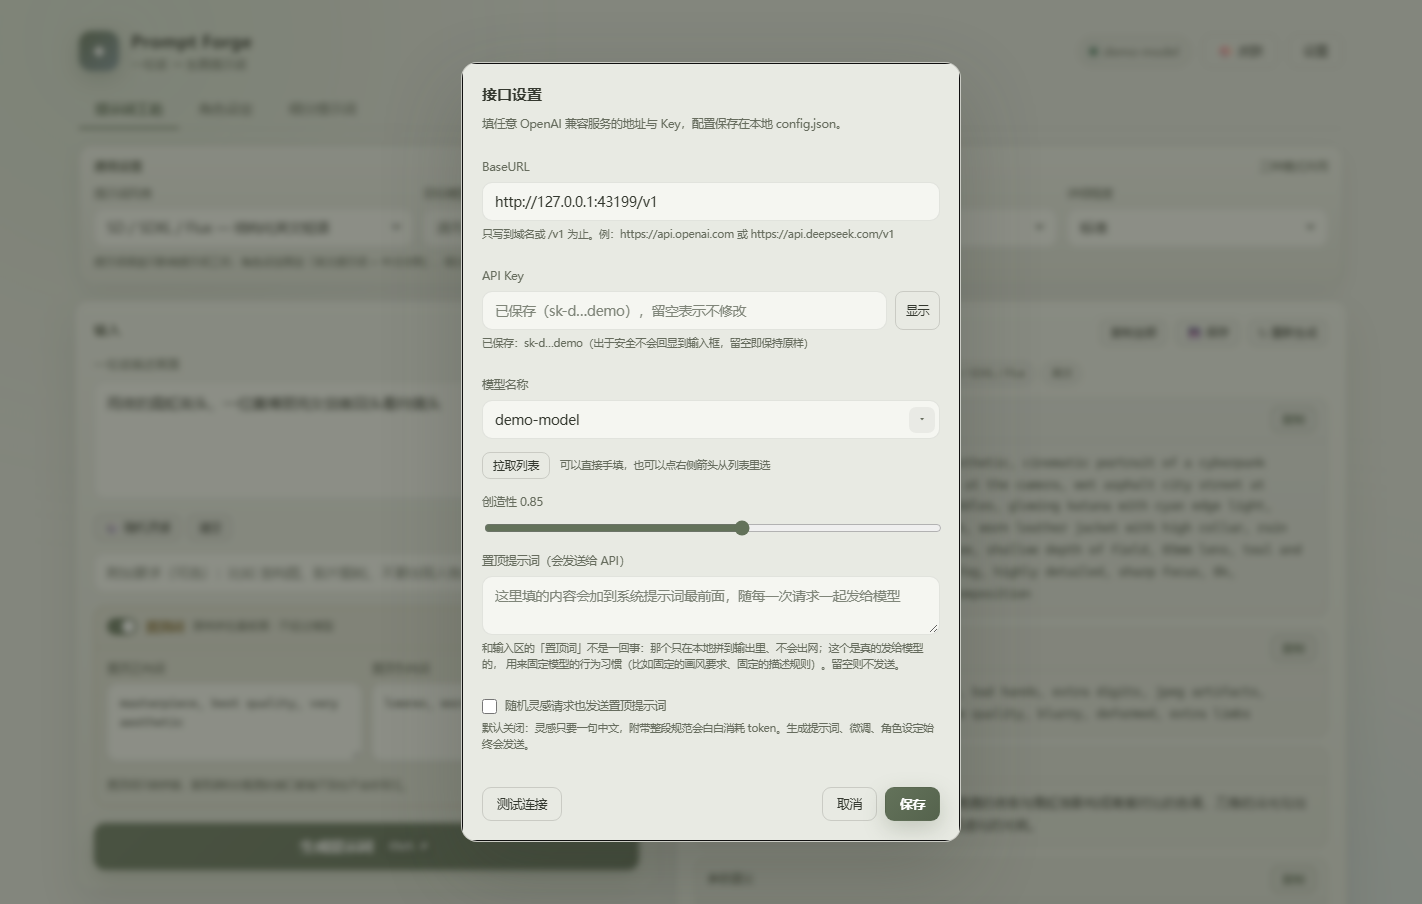
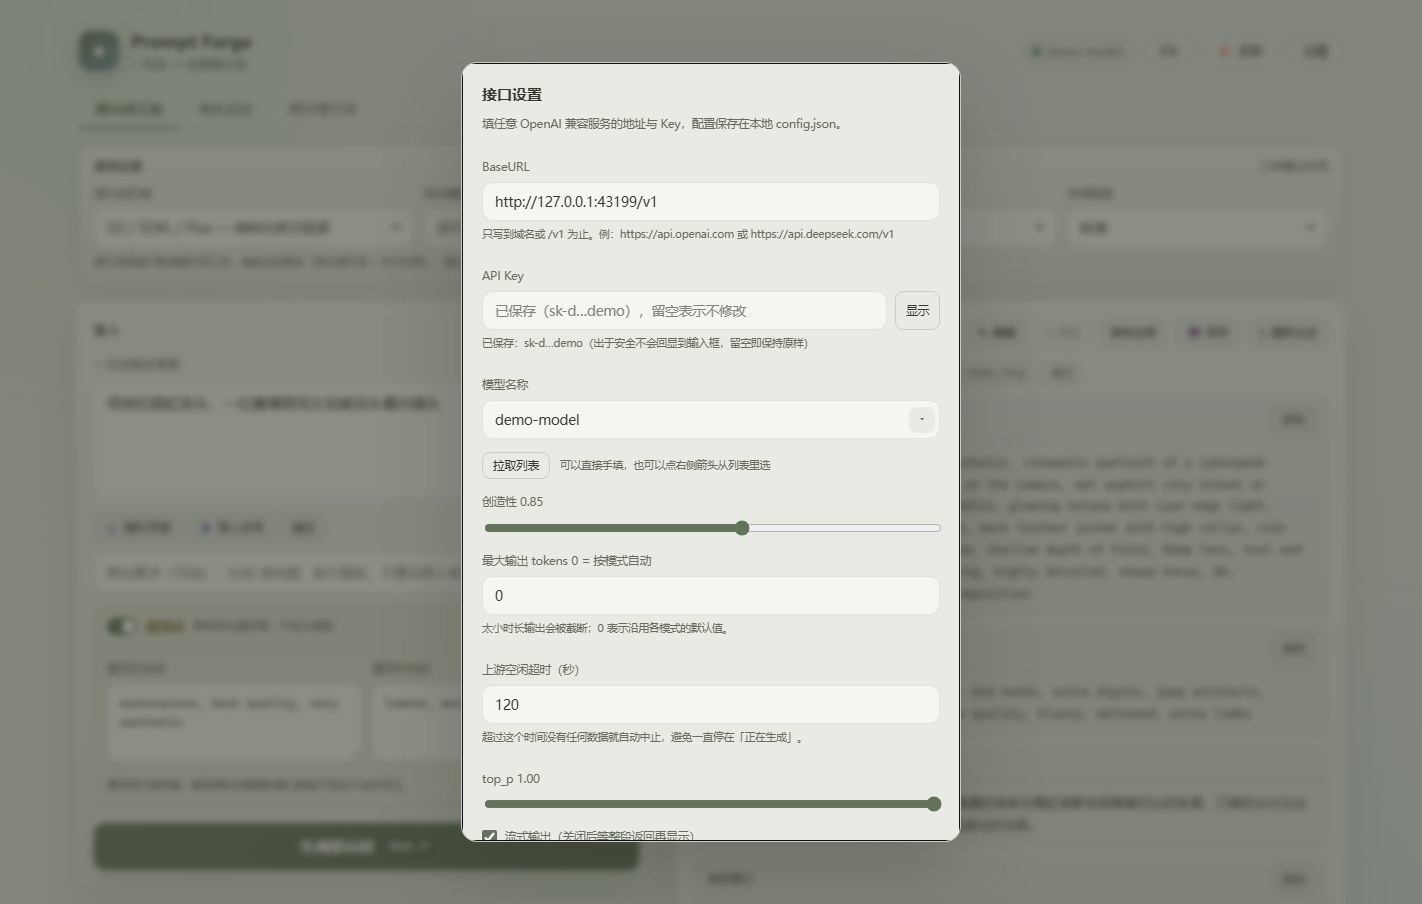
release: prepare v2.0.0

Changed region(s): [[0.3404, 0.7743, 0.6807, 0.9292], [0.3404, 0.5885, 0.6498, 0.7434], [0.6807, 0.3407, 0.7117, 0.3717]]

diff --git a/src/public/app.js b/src/public/app.js
@@ -517,6 +517,7 @@ function applyConfig(cfg, opts = {}) {
   $('#modelBadge').textContent = cfg.model ? cfg.model : '未设置模型';
   $('#charModelBadge').textContent = cfg.model ? cfg.model : '未设置模型';
   $('#segModelBadge').textContent = cfg.model ? cfg.model : '未设置模型';
+  if ($('#appVersion')) $('#appVersion').textContent = cfg.version ? `v${cfg.version}` : '';
   // 旧进程没有 features.segment；先记下来，进细分页时直接提示重启
   S.serverStale = !(cfg.features && cfg.features.segment);
   if (S.serverStale && S.view === 'segment') showSegErr(STALE_SERVER_MSG);

diff --git a/src/public/index.html b/src/public/index.html
@@ -436,6 +436,7 @@
         <button class="btn tiny ghost" id="btnLibrary">📚 保存库 <span id="libBtnCount">0</span></button>
         <button class="btn tiny ghost" id="btnOpenSaved">📁 打开目录</button>
         <button class="btn tiny ghost" id="btnHistory">历史记录 <span id="historyCount">0</span></button>
+        <span class="dim small" id="appVersion"></span>
       </div>
     </footer>
   </div>

diff --git a/README.en.md b/README.en.md
@@ -1,22 +1,39 @@
 # Prompt Forge
 
 [![CI](https://github.com/yu20000505/prompt-forge/actions/workflows/ci.yml/badge.svg)](https://github.com/yu20000505/prompt-forge/actions/workflows/ci.yml)
+[![Latest release](https://img.shields.io/github/v/release/yu20000505/prompt-forge?color=6f7f66)](../../releases)
 [![License: MIT](https://img.shields.io/badge/license-MIT-6f7f66.svg)](LICENSE)
 
-**One sentence in. A production-ready image prompt out.**
+**One sentence in. A production-ready image prompt out. 2.0**
 
 Prompt Forge is a local-first desktop tool that turns a single plain-language sentence into
 prompts you can paste straight into Stable Diffusion, NovelAI, Midjourney, Flux or DALL·E.
 It also builds character sheets with an English prompt and a Chinese translation, plus seven
 segment-tag groups (outfit, character look, scene, pose, props, lighting, style) you can combine
-freely. Every result can be refined with one sentence, undone, and saved to a local library.
+freely.
 
-No accounts, no telemetry, no cloud sync. It talks directly to whatever
+Version 2.0 completes the workflow after generation: edit results by hand, keep every mode in one
+searchable history, generate all seven tag groups at once and splice them into a single prompt,
+full-text search and back up the library, retry flaky APIs automatically, and switch the whole UI
+between Chinese and English. No accounts, no telemetry, no cloud sync. It talks directly to whatever
 **OpenAI-compatible API** you configure, and your key never leaves your machine.
 
-[中文说明](README.md) · [Download](../../releases) · [Build from source](#build-from-source)
+[中文说明](README.md) · [Download](../../releases) · [Changelog](CHANGELOG.md) · [Build from source](#build-from-source)
 
 ![Main window](docs/screenshots/01-main.png)
+
+## What's new in 2.0
+
+- **Hand editing** — edit the positive/negative prompt, interpretation, parameters, character text
+  or segment tags directly, with a “manually edited” marker and one-click restore.
+- **Import & rewrite** — paste an existing prompt and restructure it into the current style.
+- **Unified history** — all three modes are recorded, filterable, searchable and favoritable.
+- **All seven tags at once + assembly board** — run every dimension in one go, dedupe and combine.
+- **Library upgrade** — full-text search, highlighting, favorites, sorting, bulk delete and
+  JSON backup/import without the API key.
+- **Sturdier API layer** — automatic retry with backoff for 429/5xx/network errors; configurable
+  max_tokens, timeout, top_p, streaming and JSON mode; truncation warnings.
+- **Bilingual UI** — switch between Chinese and English from the top bar.
 
 ---
 
@@ -158,7 +175,7 @@ Self-signed certificates do not remove the warning.
 
 ```bash
 npm run test:static    # id references, prompt templates, theme contrast — no browser needed
-npm test               # full UI regression: 428 assertions in headless Chrome
+npm test               # full UI regression: 429 assertions in headless Chrome
 ```
 
 The UI suite boots a throwaway server against a mock OpenAI endpoint and asserts real behavior:
@@ -172,7 +189,7 @@ PASS  微调结果仍带置顶词（只带一次） (pinned prefix not duplicate
 PASS  保存的是带置顶词的实际版本 (saved file matches what you see)
 PASS  载入时置顶词没有被二次拼接 (no double-prefixing when reloading)
 ...
-428 passed, 0 failed
+429 passed, 0 failed
 ```
 
 Screenshots in `docs/` are generated by `node tests/make-screenshots.mjs`, not hand-cropped.

diff --git a/README.md b/README.md
@@ -1,20 +1,32 @@
 # Prompt Forge
 
 [![CI](https://github.com/yu20000505/prompt-forge/actions/workflows/ci.yml/badge.svg)](https://github.com/yu20000505/prompt-forge/actions/workflows/ci.yml)
+[![Latest release](https://img.shields.io/github/v/release/yu20000505/prompt-forge?color=6f7f66)](../../releases)
 [![License: MIT](https://img.shields.io/badge/license-MIT-6f7f66.svg)](LICENSE)
 
-**一句话进，可出图的提示词出来。**
+**一句话进，可出图的提示词出来。2.0**
 
 Prompt Forge 是一个纯本地的小工具：写一句中文，它帮你调大模型生成
 Stable Diffusion / NovelAI / Midjourney / Flux / DALL·E 能直接用的提示词；
 还能产出「英文提示词 + 中文对照」的角色设定，以及服饰、人物、场景等七类可自由拼装的细分 tag。
-生成结果都能用一句话微调、无限撤回，并保存到本地库。
 
-不需要注册、不上传数据，直连你自己配置的 **OpenAI 兼容接口**，Key 只存在本机。
+2.0 把「生成之后」的流程补完整了：结果可以直接手改，提示词 / 角色 / 细分统一进历史，
+七类标签一键生成并拼进拼装板，保存库支持全文检索、收藏和备份，接口失败会自动重试，界面中英双语。
+全程不需要注册、不上传数据，直连你自己配置的 **OpenAI 兼容接口**，Key 只存在本机。
 
-[English](README.en.md) · [下载](../../releases) · [自己构建](#自己构建)
+[English](README.en.md) · [下载](../../releases) · [更新日志](CHANGELOG.md) · [自己构建](#自己构建)
 
 ![主界面](docs/screenshots/01-main.png)
+
+## 2.0 新功能
+
+- **结果可手改** —— 正向、负向、画面解读、参数，角色英文/中文，细分标签都能直接编辑；标记「已手改」，也可一键恢复模型原版。
+- **导入改写** —— 粘贴网上找到的现成提示词，按当前风格重写，补负面词、中文解读和参数。
+- **统一历史** —— 三种模式都自动记录，可按类型筛选、搜索、收藏置顶，点一条恢复完整结果。
+- **七类一键生成 + 拼装板** —— 一次跑完七类标签，自动去重拼成一条可直接粘贴的 tag 串。
+- **保存库升级** —— 全文检索、高亮、收藏、排序、批量删除，以及不含 Key 的 JSON 备份/导入。
+- **更稳的接口** —— 429/5xx/网络失败自动退避重试；max_tokens、超时、top_p、流式、JSON 模式可调，截断会提示。
+- **中英双语** —— 右上角一键切换中文 / English。
 
 ---
 
@@ -139,7 +151,7 @@ CI 里配置 `WINDOWS_PFX_BASE64` 和 `WINDOWS_PFX_PASSWORD` 两个 Secret，打
 
 ```bash
 npm run test:static    # id 引用、prompt 模板、主题对比度，不需要浏览器
-npm test               # 完整 UI 回归：无头 Chrome 里跑 428 条断言
+npm test               # 完整 UI 回归：无头 Chrome 里跑 429 条断言
 ```
 
 UI 套件会用假接口起一个临时实例，验证真实行为：全部皮肤下每个文字节点的对比度、
@@ -152,7 +164,7 @@ PASS  微调结果仍带置顶词（只带一次）
 PASS  保存的是带置顶词的实际版本
 PASS  载入时置顶词没有被二次拼接
 ...
-428 项通过，0 失败
+429 项通过，0 失败
 ```
 
 `docs/` 里的截图由 `node tests/make-screenshots.mjs` 生成，不是手工裁剪。

diff --git a/CHANGELOG.md b/CHANGELOG.md
@@ -1,0 +1,44 @@
+# Changelog
+
+## 2.0.0 — 2026-10-28
+
+这是一个以「生成之后」为核心的版本：结果可编辑、历史与保存库更完整、七类标签可一键拼装，
+并补上了接口重试、参数配置、备份恢复和中英双语界面。
+
+### 新增
+
+- **结果就地编辑**：正向、负向、画面解读、参数、角色英文/中文、细分标签都可直接修改；
+  编辑后标记「已手改」，复制/保存/历史使用修改后的版本，并可一键恢复模型原版。
+- **导入已有提示词改写**：粘贴现成提示词，保留主体和画面意图，按当前风格重写，
+  自动补负面词、中文解读和参数建议。
+- **历史记录补全**：角色设定进入历史；三种模式都可按类型筛选、全文搜索、收藏置顶，
+  点击条目恢复完整结果。
+- **一键生成七类标签**：顺序生成服饰/人物/场景/动作/道具/光影/画风，显示进度与耗时，
+  可取消、可补齐剩余，完成后自动加入拼装板。
+- **拼装板**：七类标签按固定顺序拼接、自动去重，支持复制、保存到库、清空撤销和单项移除。
+- **保存库升级**：全文检索与命中高亮、收藏分组置顶、按时间/标题排序、批量选择删除与撤销。
+- **备份与导入**：导出 JSON 备份（保存库、历史、拼装板、脱敏设置，不含 API Key）；
+  导入支持合并（重名加后缀）或覆盖（旧文件先移入回收站）。
+- **请求参数可调**：最大输出 tokens、空闲超时、top_p、流式开关、JSON 模式。
+- **接口稳定性**：429/5xx/超时/网络错误自动退避重试，401/404 不重试并给出配置提示；
+  输出被截断时明确提示，思考模型显示「思考中」。
+- **中英双语界面**：右上角切换中文 / English，语言选择会记住；设置、保存库、历史、
+  导入/备份弹窗和常见错误都有英文版本。
+- **界面版本号**：页脚显示当前版本。
+
+### 改进
+
+- 生成被取消或失败时，保留上一次的结果，而不是留下空白。
+- 保存库搜索从「标题 + 摘要」升级为服务端全文检索。
+- 窄屏下顶栏和结果工具栏支持换行，避免横向溢出。
+- 打包脚本内嵌 `i18n.js`，源码版和 exe 版界面一致。
+
+### 测试
+
+- UI 回归扩展到 429 条断言，覆盖编辑、历史恢复、导入改写、七类批量、429 重试、
+  参数透传、截断提示、全文搜索、收藏、批量删除撤销、备份合并/覆盖和中英文切换。
+
+## 1.0.0 — 2026-10-27
+
+首个开源版本：三种模式、五种提示词风格、七类细分标签、微调撤回、本地保存库、
+七套莫兰迪皮肤、零运行时依赖，以及 Windows 单文件 exe / Electron 桌面版。

diff --git a/docs/ROADMAP.md b/docs/ROADMAP.md
@@ -178,4 +178,4 @@
 - [x] A1 结果就地编辑：三种模式共用编辑弹窗、已手改标记、恢复模型原版
 - [x] 拼装板：七类标签收集、固定顺序拼接、去重、复制/保存/持久化 — `64adf5f`
 - [x] 生成取消按钮 + 取消/失败后保留上一次结果 — `45dc034`
-- [x] UI 回归扩展到 428 条断言
+- [x] UI 回归扩展到 429 条断言
